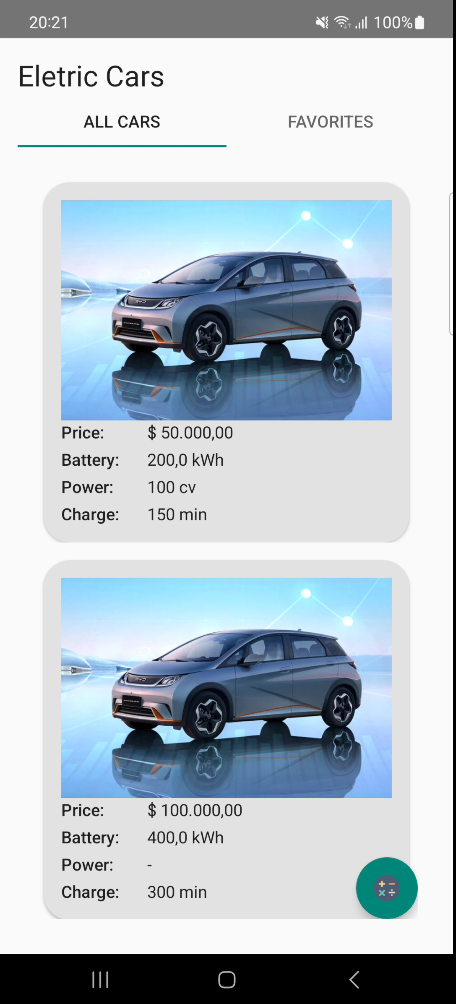
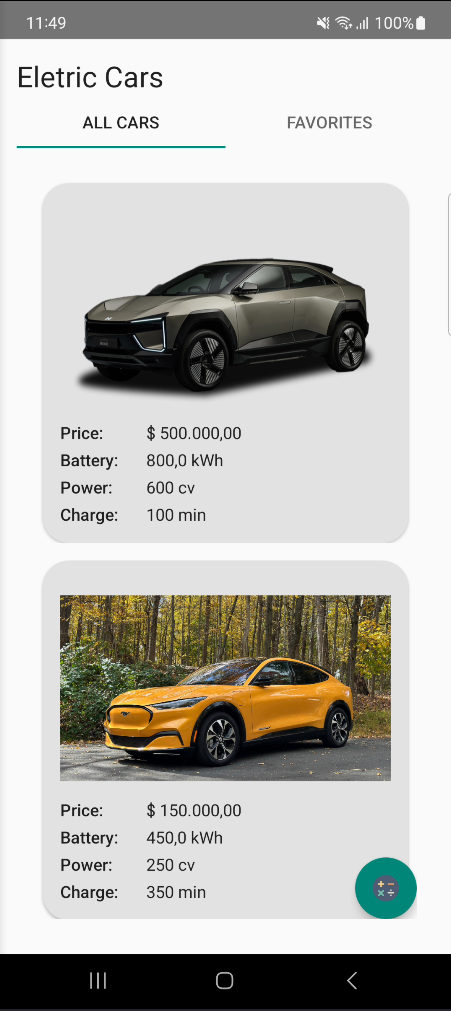
Added image load from an URL using coli with load and error treatment.

diff --git a/app/src/main/java/com/example/quartoappdio_eletriccar/presentation/adapter/CarAdapter.kt b/app/src/main/java/com/example/quartoappdio_eletriccar/presentation/adapter/CarAdapter.kt
@@ -1,32 +1,60 @@
 package com.example.quartoappdio_eletriccar.presentation.adapter
 
+import android.content.Context
+import android.graphics.drawable.Drawable
 import android.view.LayoutInflater
 import android.view.View
 import android.view.ViewGroup
+import android.widget.ImageView
+import android.widget.ProgressBar
 import android.widget.TextView
+import androidx.core.content.ContextCompat
 import androidx.recyclerview.widget.RecyclerView
+import coil3.load
+import coil3.request.ErrorResult
+import coil3.request.ImageRequest
+import coil3.request.SuccessResult
 import com.example.quartoappdio_eletriccar.R
 import com.example.quartoappdio_eletriccar.domain.Car
 
 class CarAdapter(private val cars: List<Car>) : RecyclerView.Adapter<CarAdapter.ViewHolder>() {
 
     override fun onCreateViewHolder(parent: ViewGroup, viewType: Int): ViewHolder {
-        //Log.d("DEBUG","onCreateViewHolder called")
         val view = LayoutInflater.from(parent.context).inflate(R.layout.item_car, parent, false)
         return ViewHolder(view)
     }
 
     override fun getItemCount(): Int {
-        //Log.d("DEBUG","getItemCount called getting ${cars.size} items")
         return cars.size
     }
 
     override fun onBindViewHolder(holder: ViewHolder, position: Int) {
-        //Log.d("DEBUG","onBindViewHolder called with position $position")
         holder.price.text = cars[position].price
         holder.battery.text = cars[position].battery
         holder.power.text = cars[position].power
         holder.charge.text = cars[position].charge
+        val photoUrl = cars[position].urlPhoto
+        holder.photo.load(photoUrl) {
+            listener(object : ImageRequest.Listener {
+                override fun onSuccess(request: ImageRequest, result: SuccessResult) {
+                    super.onSuccess(request, result)
+                    Thread.sleep(1000)
+                    setVisibility(holder)
+                }
+                override fun onError(request: ImageRequest, result: ErrorResult) {
+                    super.onError(request, result)
+                    val c : Context = holder.itemView.context
+                    val errorDraw : Drawable? = ContextCompat.getDrawable(c, R.drawable.error_01)
+                    holder.photo.setImageDrawable(errorDraw)
+                    setVisibility(holder)
+                }
+            })
+        }
+    }
+
+    private fun setVisibility(holder: ViewHolder) {
+        holder.pBar.visibility = View.GONE
+        holder.photo.visibility = View.VISIBLE
     }
 
     class ViewHolder(view: View) : RecyclerView.ViewHolder(view) {
@@ -34,14 +62,17 @@ class CarAdapter(private val cars: List<Car>) : RecyclerView.Adapter<CarAdapter.
         val battery: TextView
         val power: TextView
         val charge: TextView
+        val photo: ImageView
+        val pBar: ProgressBar
 
         init {
             view.apply {
-                //Log.d("DEBUG","ViewHolder.init called")
                 price = findViewById(R.id.tv_price_val)
                 battery = findViewById(R.id.tv_battery_val)
                 power = findViewById(R.id.tv_power_val)
                 charge = findViewById(R.id.tv_charge_val)
+                photo = findViewById(R.id.iv_photo)
+                pBar = findViewById(R.id.pb_load_photo)
             }
         }
     }

diff --git a/app/src/main/java/com/example/quartoappdio_eletriccar/presentation/CarFragment.kt b/app/src/main/java/com/example/quartoappdio_eletriccar/presentation/CarFragment.kt
@@ -100,7 +100,6 @@ class CarFragment : Fragment() {
             override fun onResponse(call: Call<List<Car>>, response: Response<List<Car>>) {
                 if (response.isSuccessful){
                     response.body()?.let{
-                        Thread.sleep(500)
                         setupList(treatCarsStrings(it))
                     }
                 } else {
